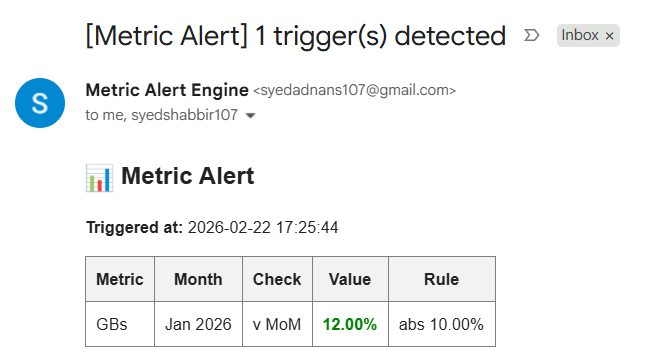
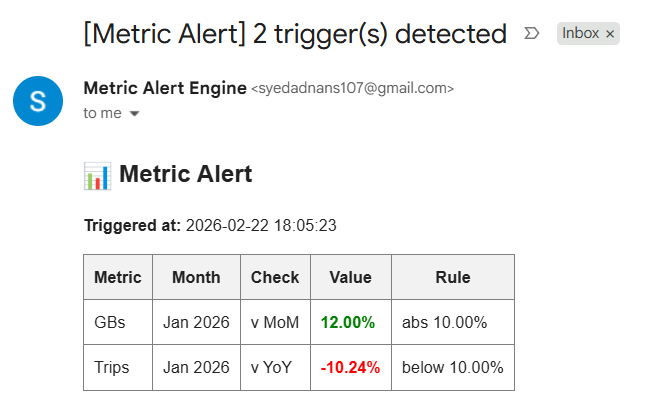
Fix recipient grouping (single email per user) and update email screenshot

diff --git a/alert_engine.py b/alert_engine.py
@@ -236,16 +236,16 @@ def main(args):
         print("No alerts triggered.")
         return
 
-    # Group alerts by identical recipient lists so each group gets one email
+    # Group alerts by recipient so each person gets ONE email with all relevant triggers
     grouped = {}
     for a in triggered_alerts:
-        key = tuple(a["recipients"])
-        grouped.setdefault(key, []).append(a)
+        for recipient in a["recipients"]:
+            grouped.setdefault(recipient, []).append(a)
 
     now_str = datetime.now().strftime("%Y-%m-%d %H:%M:%S")
 
-    for recipients_key, items in grouped.items():
-        recipients = list(recipients_key)
+    for recipient, items in grouped.items():
+        recipients = [recipient]
 
         subject = f"{args.subject_prefix} {len(items)} trigger(s) detected"
         lines = []
